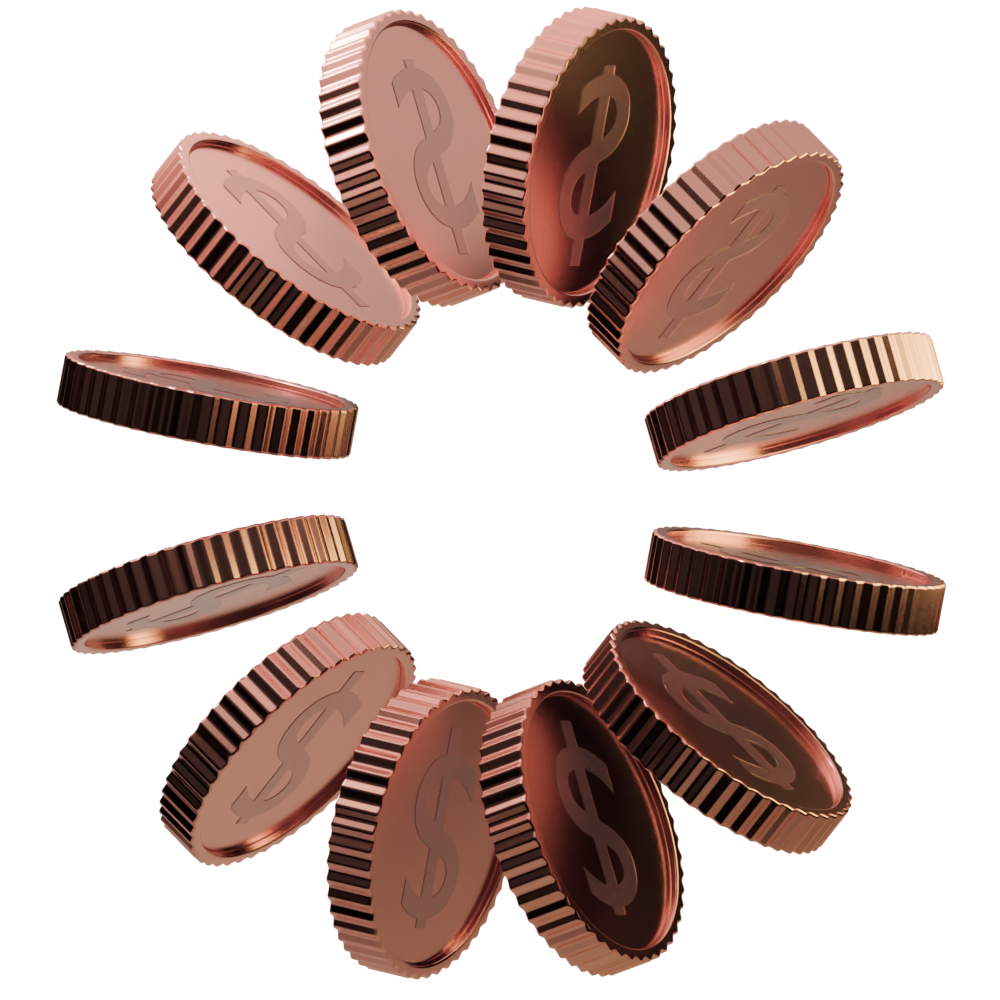
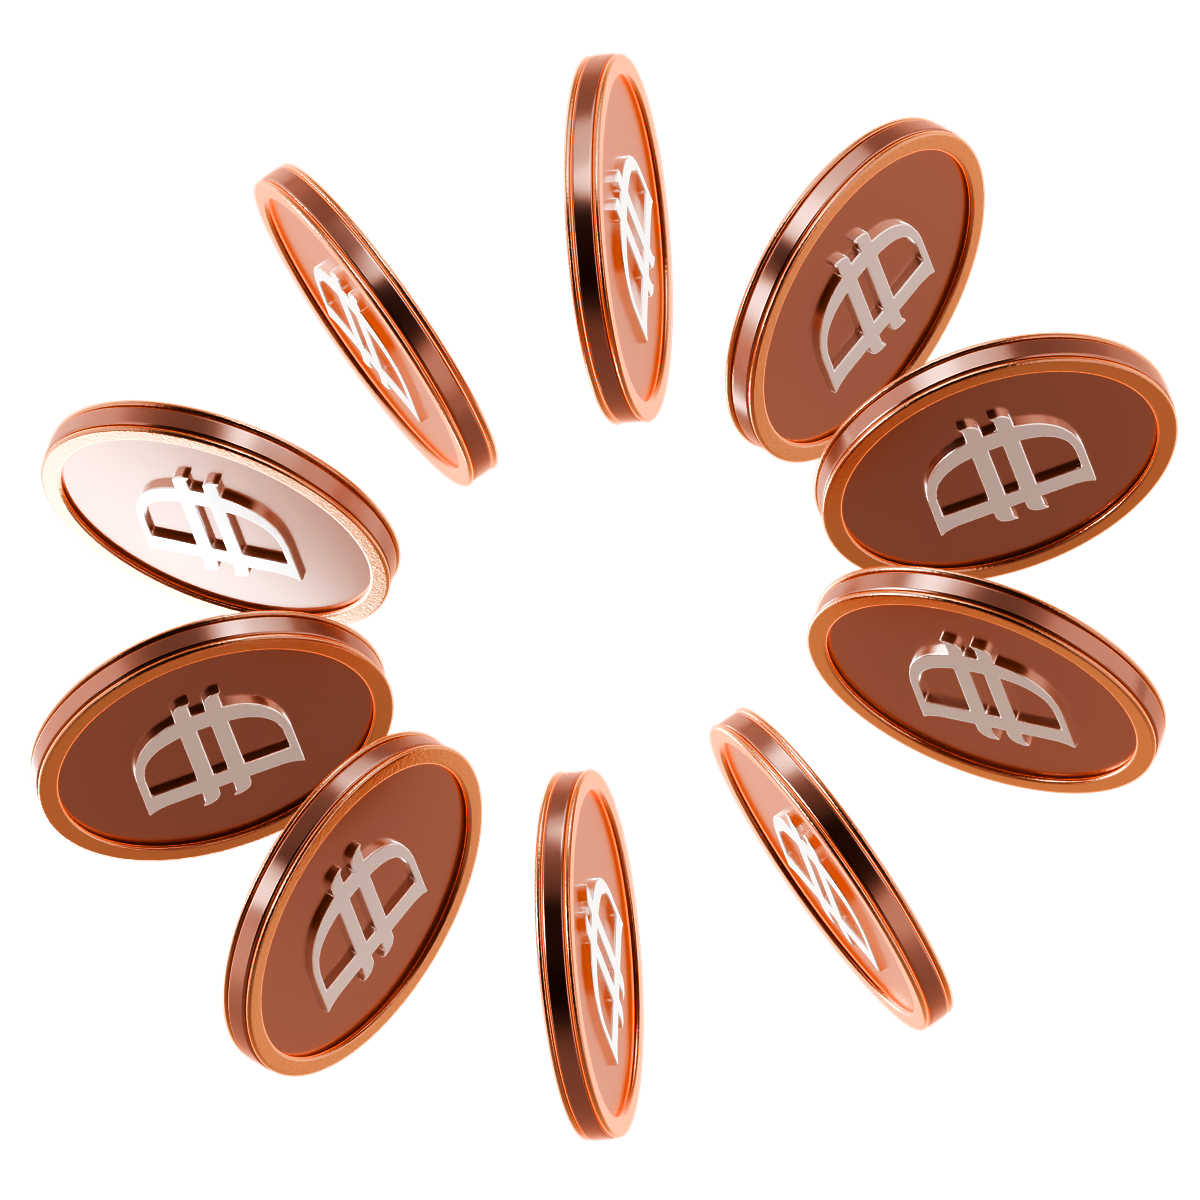
Update download, footer, goal, and invest sections
Add top padding to download section, refresh footer social icons,
update goal/invest card visuals and copy.

diff --git a/src/app/components/Footer.tsx b/src/app/components/Footer.tsx
@@ -1,61 +1,71 @@
 import imgLogo from "../../assets/sections/footer-logo.svg";
+import imgInstagram from "../../assets/sections/footer-instagram.svg";
 import imgLinkedin from "../../assets/sections/footer-linkedin.svg";
 import imgWhatsapp from "../../assets/sections/footer-whatsapp.svg";
-import imgMail from "../../assets/sections/footer-mail.svg";
+
+const navLinks = [
+  "Personalised portfolios",
+  "Islamic investing",
+  "Pricing & Fees",
+  "About us",
+  "Blog",
+  "Help centre",
+];
 
 export default function Footer() {
   return (
-    <div className="bg-[#1a110a] content-stretch flex items-center justify-center px-[180px] py-[48px] relative shrink-0 w-full" data-node-id="982:24625" data-name="footer">
-      <div className="content-stretch flex flex-[1_0_0] flex-col gap-[63px] items-start justify-center min-w-px relative" data-node-id="982:24626">
-        <div className="h-[29px] relative shrink-0 w-[194.062px]" data-node-id="982:24627" data-name="logo">
-          <img alt="CUSP" className="absolute block inset-0 max-w-none size-full" src={imgLogo} />
-        </div>
-        <div className="content-stretch flex flex-col gap-[48px] items-start relative shrink-0 w-full" data-node-id="982:24629">
-          <p className="[word-break:break-word] font-aeonik font-normal leading-[40px] not-italic relative shrink-0 text-[37px] text-white max-w-[885px]" data-node-id="982:24631">
-            Have any questions or just want to keep in touch?
-          </p>
-          <div className="content-stretch flex flex-wrap gap-[63px] items-start relative shrink-0" data-node-id="982:24632">
-            <a href="https://www.linkedin.com/company/cuspwealth" target="_blank" rel="noreferrer" className="content-stretch flex gap-[12px] items-center relative shrink-0" data-node-id="982:24633">
-              <div className="overflow-clip relative shrink-0 size-[36px]" data-node-id="982:24634" data-name="linkedin">
+    <div className="bg-white content-stretch flex flex-col items-start pb-[24px] px-[24px] relative shrink-0 w-full" data-node-id="1162:6778">
+      <div className="bg-[#1a110a] content-stretch flex items-center justify-center px-[100px] py-[48px] relative rounded-[32px] shrink-0 w-full" data-node-id="1162:6733" data-name="footer">
+        <div className="content-stretch flex items-start justify-between relative shrink-0 w-[1040px] max-w-full gap-[48px]" data-node-id="1162:6736">
+          <div className="content-stretch flex flex-col gap-[32px] items-start relative shrink-0 w-[400px]" data-node-id="1162:6737">
+            <div className="h-[21px] relative shrink-0 w-[140px]" data-node-id="1162:6738" data-name="logo">
+              <img alt="CUSP" className="absolute block inset-0 max-w-none size-full" src={imgLogo} />
+            </div>
+            <div className="content-stretch flex gap-[8px] items-center relative shrink-0" data-node-id="1162:6739">
+              <a href="https://www.instagram.com/cuspwealth" target="_blank" rel="noreferrer" aria-label="Instagram" className="overflow-clip relative shrink-0 size-[24px]" data-node-id="1162:6740">
+                <img alt="" className="absolute block inset-0 max-w-none size-full" src={imgInstagram} />
+              </a>
+              <a href="https://www.linkedin.com/company/cuspwealth" target="_blank" rel="noreferrer" aria-label="LinkedIn" className="overflow-clip relative shrink-0 size-[24px]" data-node-id="1162:6744">
                 <img alt="" className="absolute block inset-0 max-w-none size-full" src={imgLinkedin} />
-              </div>
-              <p className="[word-break:break-word] font-aeonik font-normal leading-[1.4] not-italic relative shrink-0 text-[#f5f5f5] text-[18px] whitespace-nowrap" data-node-id="982:24638">
-                Follow us on LinkedIn
-              </p>
-            </a>
-            <a href="https://wa.me/" target="_blank" rel="noreferrer" className="content-stretch flex gap-[12px] items-center relative shrink-0" data-node-id="982:24639">
-              <div className="overflow-clip relative shrink-0 size-[36px]" data-node-id="982:24640" data-name="whatsapp">
+              </a>
+              <a href="https://wa.me/" target="_blank" rel="noreferrer" aria-label="WhatsApp" className="overflow-clip relative shrink-0 size-[24px]" data-node-id="1162:6748">
                 <img alt="" className="absolute block inset-0 max-w-none size-full" src={imgWhatsapp} />
-              </div>
-              <p className="[word-break:break-word] font-aeonik font-normal leading-[1.4] not-italic relative shrink-0 text-[#f5f5f5] text-[18px] whitespace-nowrap" data-node-id="982:24645">
-                Chat on WhatsApp
-              </p>
-            </a>
-            <a href="mailto:[email redacted]" className="content-stretch flex gap-[12px] items-center relative shrink-0" data-node-id="982:24646">
-              <div className="relative shrink-0 size-[36px]" data-node-id="982:24647" data-name="mail">
-                <img alt="" className="absolute block inset-0 max-w-none size-full" src={imgMail} />
-              </div>
-              <p className="[word-break:break-word] font-aeonik font-normal leading-[1.4] not-italic relative shrink-0 text-[#f5f5f5] text-[18px] whitespace-nowrap" data-node-id="982:24652">
-                [email redacted]
-              </p>
-            </a>
+              </a>
+            </div>
           </div>
-          <div className="[word-break:break-word] content-stretch flex flex-wrap gap-[63px] items-start not-italic relative shrink-0 w-full" data-node-id="982:24653">
-            <div className="content-stretch flex flex-col gap-[12px] items-start relative shrink-0 text-[#f5f5f5] text-[16px] whitespace-nowrap" data-node-id="982:24654">
-              <p className="font-aeonik font-semibold leading-[1.4] relative shrink-0" data-node-id="982:24655">*T&amp;C Apply</p>
-              <div className="content-stretch flex flex-col font-inter font-normal gap-[12px] items-start justify-center relative shrink-0 w-full" data-node-id="982:24656">
-                <a href="#" className="leading-[1.4] relative shrink-0 underline decoration-solid [text-underline-position:from-font]" data-node-id="982:24657">
-                  Fees Schedule
-                </a>
-                <a href="#" className="leading-[1.4] relative shrink-0 underline decoration-solid [text-underline-position:from-font]" data-node-id="982:24658">
-                  Privacy &amp; Cookies Policy
-                </a>
-                <a href="#" className="leading-[1.4] relative shrink-0 underline decoration-solid [text-underline-position:from-font]" data-node-id="982:24659">
-                  Terms and Conditions
-                </a>
+          <div className="[word-break:break-word] content-stretch flex flex-col gap-[32px] items-start not-italic relative shrink-0 w-[640px] max-w-full" data-node-id="1162:6781">
+            <div className="content-stretch flex font-aeonik items-start leading-[1.4] relative shrink-0 text-[#f5f5f5] text-[14px] w-full whitespace-nowrap gap-[48px]" data-node-id="1162:6779">
+              <div className="content-stretch flex flex-[1_0_0] flex-col gap-[12px] items-start min-w-px relative" data-node-id="1162:6754">
+                {navLinks.map((label) => (
+                  <a key={label} href="#" className="relative shrink-0 hover:opacity-80 transition-opacity">
+                    {label}
+                  </a>
+                ))}
+              </div>
+              <div className="content-stretch flex flex-[1_0_0] flex-col gap-[24px] items-start min-w-px relative" data-node-id="1162:6761">
+                <div className="content-stretch flex flex-col items-start justify-center relative shrink-0" data-node-id="1162:6762">
+                  <p className="opacity-50 relative shrink-0" data-node-id="1162:6763">have questions?</p>
+                  <a href="mailto:[email redacted]" className="relative shrink-0 hover:opacity-80 transition-opacity" data-node-id="1162:6764">
+                    [email redacted]
+                  </a>
+                </div>
+                <div className="content-stretch flex flex-col items-start justify-center relative shrink-0" data-node-id="1162:6765">
+                  <p className="opacity-50 relative shrink-0" data-node-id="1162:6766">want to collaborate?</p>
+                  <a href="mailto:[email redacted]" className="relative shrink-0 hover:opacity-80 transition-opacity" data-node-id="1162:6767">
+                    [email redacted]
+                  </a>
+                </div>
+                <div className="content-stretch flex flex-col gap-[12px] items-start relative shrink-0" data-node-id="1162:6768">
+                  <p className="opacity-50 relative shrink-0" data-node-id="1162:6769">*T&amp;C Apply</p>
+                  <div className="content-stretch flex flex-col gap-[7px] items-start justify-center relative shrink-0 w-full" data-node-id="1162:6770">
+                    <a href="#" className="relative shrink-0 hover:opacity-80 transition-opacity" data-node-id="1162:6771">Fees Schedule</a>
+                    <a href="#" className="relative shrink-0 hover:opacity-80 transition-opacity" data-node-id="1162:6772">Privacy &amp; Cookies policy</a>
+                    <a href="#" className="relative shrink-0 hover:opacity-80 transition-opacity" data-node-id="1162:6773">Terms and Conditions</a>
+                  </div>
+                </div>
               </div>
             </div>
-            <p className="flex-[1_0_0] font-inter font-normal leading-[1.4] min-w-px opacity-50 relative text-[16px] text-white" data-node-id="982:24660">
+            <p className="font-inter font-normal leading-[1.4] opacity-50 relative shrink-0 text-[14px] text-white w-full" data-node-id="1162:6782">
               {`Cusp Wealth is a DFSA-regulated company with a Category 4 license to serve retail clients under license number F011420. We are authorised to advise on financial products and arrange deals in investments. Any information presented here is of a general nature and does not take into account your personal circumstances or financial objectives. All materials used in these communications are for marketing purposes of the Cusp Wealth Application; none are meant to offer to sell, a solicitation or an offer to buy, or a recommendation for any investment product or strategy. Investing involves risk; you may lose all or part of your capital. No content from Cusp Wealth should be understood as guaranteeing returns, offering risk-free investments, or promising wealth outcomes. This material is intended for DFSA-defined Retail and/or Professional Clients. If you are unsure of your classification or eligibility, please contact us at [email redacted], or refer to our full disclosure at `}
               <a className="underline decoration-solid [text-underline-position:from-font] cursor-pointer" href="https://cuspwealth.com/terms-and-conditions" target="_blank" rel="noreferrer">
                 https://cuspwealth.com/terms-and-conditions

diff --git a/src/app/components/FAQ.tsx b/src/app/components/FAQ.tsx
@@ -69,14 +69,18 @@ const faqs: FaqItem[] = [
 
 function Chevron({ open }: { open: boolean }) {
   return (
-    <div
-      className={`flex items-center justify-center relative shrink-0 size-[46px] transition-transform duration-200 ${
-        open ? "rotate-180" : ""
-      }`}
-    >
-      <svg className="block size-[46px]" fill="none" viewBox="0 0 46 46" xmlns="http://www.w3.org/2000/svg" aria-hidden>
+    <div className="overflow-clip relative shrink-0 size-[46px]">
+      <svg
+        className={`-translate-x-1/2 -translate-y-1/2 absolute left-1/2 top-1/2 block size-[28px] transition-transform duration-200 ${
+          open ? "rotate-180" : ""
+        }`}
+        fill="none"
+        viewBox="0 0 28 28"
+        xmlns="http://www.w3.org/2000/svg"
+        aria-hidden
+      >
         <path
-          d="M15 19.5L23 27.5L31 19.5"
+          d="M8 11.5L14 17.5L20 11.5"
           stroke="#1d1611"
           strokeWidth="2"
           strokeLinecap="round"
@@ -88,16 +92,16 @@ function Chevron({ open }: { open: boolean }) {
 }
 
 export default function FAQ() {
-  const [openIndex, setOpenIndex] = useState<number>(3);
+  const [openIndex, setOpenIndex] = useState<number>(faqs.length - 1);
 
   return (
-    <div className="bg-[#fcf8ef] content-stretch flex flex-col items-center py-[80px] relative shrink-0 w-full" data-node-id="982:24589">
+    <div className="bg-white content-stretch flex flex-col items-center py-[80px] relative shrink-0 w-full" data-node-id="982:24589">
       <div className="content-stretch flex flex-col gap-[60px] items-center relative shrink-0 w-full" data-node-id="982:24590">
         <p className="[word-break:break-word] font-aeonik font-normal leading-[56px] not-italic relative shrink-0 text-[#1d1611] text-[48px] text-center tracking-[-0.96px]" data-node-id="982:24592">
           FAQ
         </p>
-        <div className="content-stretch flex flex-col items-center px-[200px] relative shrink-0 w-full" data-node-id="982:24593">
-          <div className="content-stretch flex flex-col gap-[9px] items-start relative shrink-0 w-full" data-node-id="982:24595">
+        <div className="content-stretch flex flex-col items-center px-[24px] relative shrink-0 w-full" data-node-id="982:24593">
+          <div className="content-stretch flex flex-col gap-[9px] items-start relative shrink-0 w-full max-w-[680px]" data-node-id="982:24595">
             {faqs.map((faq, index) => {
               const isOpen = openIndex === index;
               return (
@@ -106,17 +110,17 @@ export default function FAQ() {
                     type="button"
                     onClick={() => setOpenIndex(isOpen ? -1 : index)}
                     aria-expanded={isOpen}
-                    className={`bg-white content-stretch flex gap-[16px] items-center justify-between px-[24px] py-[12px] relative shrink-0 text-left w-full ${
-                      isOpen ? "rounded-tl-[16px] rounded-tr-[16px]" : "rounded-[16px]"
+                    className={`bg-[#fafafa] content-stretch flex gap-[16px] items-center justify-between px-[24px] py-[12px] relative shrink-0 text-left w-full rounded-[16px] ${
+                      isOpen ? "mb-[-11px] z-[1]" : ""
                     }`}
                   >
-                    <p className="[word-break:break-word] font-aeonik font-normal leading-[29px] not-italic relative shrink-0 text-[24px] text-black tracking-[-0.48px]">
+                    <p className="[word-break:break-word] font-aeonik font-normal leading-[29px] not-italic relative shrink-0 text-[23px] text-black tracking-[-0.46px]">
                       {faq.question}
                     </p>
                     <Chevron open={isOpen} />
                   </button>
                   {isOpen && (
-                    <div className="bg-[#fffcf8] content-stretch flex items-center p-[24px] relative rounded-bl-[16px] rounded-br-[16px] shrink-0 w-full">
+                    <div className="bg-[#fafafa] content-stretch flex items-center p-[24px] relative rounded-bl-[16px] rounded-br-[16px] shrink-0 w-full">
                       <div className="[word-break:break-word] flex-[1_0_0] font-inter font-normal leading-[0] min-w-px not-italic relative text-[#0f0a08] text-[16px] whitespace-pre-wrap">
                         {faq.answer}
                       </div>

diff --git a/src/app/components/GoalCardsStack.tsx b/src/app/components/GoalCardsStack.tsx
@@ -5,8 +5,8 @@ import imgLegacyCoins from "../../assets/sections/goal/legacy-coins.png";
 import imgRetireMan from "../../assets/sections/goal/retire-man.png";
 import imgRetireMask from "../../assets/sections/goal/retire-mask.svg";
 
-const ORANGE_GRADIENT =
-  "linear-gradient(182.84695752350353deg, rgb(221, 116, 15) 11.523%, rgb(249, 245, 240) 181.22%), linear-gradient(90deg, rgb(251, 237, 222) 0%, rgb(251, 237, 222) 100%)";
+const RETIRE_GRADIENT =
+  "linear-gradient(194.67599399443316deg, rgb(210, 173, 141) 2.1601%, rgb(250, 247, 238) 103.92%)";
 
 export default function GoalCardsStack() {
   return (
@@ -33,7 +33,7 @@ export default function GoalCardsStack() {
           className="bg-[#d8c9b9] content-stretch flex flex-col h-full items-start justify-end overflow-clip p-[12px] relative rounded-[44px] shrink-0 w-[424px]"
           data-node-id="982:24231"
         >
-          <div className="absolute h-[640px] left-[-70px] top-[-89px] w-[1142px] pointer-events-none" data-node-id="1013:26420">
+          <div className="-translate-x-1/2 -translate-y-1/2 absolute h-[711.896px] left-[calc(50%+140.26px)] top-[calc(50%-46.23px)] w-[1260.648px] pointer-events-none" data-node-id="1162:6849">
             <img alt="" className="absolute inset-0 max-w-none object-cover pointer-events-none size-full" src={imgHalalCouple} loading="lazy" decoding="async" />
           </div>
           <div
@@ -71,7 +71,7 @@ export default function GoalCardsStack() {
             className="bg-[#f2d2a9] content-stretch flex flex-[1_0_0] flex-col items-end min-h-px overflow-clip px-[12px] py-[32px] relative rounded-[32px] w-full"
             data-node-id="982:24293"
           >
-            <div className="absolute box-content blur-[26.5px] left-[-149px] opacity-70 size-[331px] top-[-8px] pointer-events-none" data-node-id="1013:26451">
+            <div className="absolute blur-[26.5px] left-[-149px] opacity-70 size-[331px] top-[-8px] pointer-events-none" data-node-id="1013:26451">
               <img alt="" className="absolute inset-0 max-w-none object-cover pointer-events-none size-full" src={imgLegacyCoins} loading="lazy" decoding="async" />
             </div>
             <div
@@ -93,16 +93,20 @@ export default function GoalCardsStack() {
           <div
             className="content-stretch flex flex-[1_0_0] flex-col items-end min-h-px overflow-clip px-[12px] py-[32px] relative rounded-[32px] w-full"
             data-node-id="982:24240"
-            style={{ backgroundImage: ORANGE_GRADIENT }}
+            style={{ backgroundImage: RETIRE_GRADIENT }}
           >
-            <div className="-translate-x-1/2 -translate-y-1/2 absolute h-[293px] left-[calc(50%-10px)] top-[calc(50%-19.75px)] w-[522px] pointer-events-none" data-node-id="1013:26429">
-              <img alt="" className="absolute inset-0 max-w-none object-cover pointer-events-none size-full" src={imgRetireMan} loading="lazy" decoding="async" />
-            </div>
             <div className="absolute h-[987.347px] left-[-723.43px] opacity-30 top-[-11.29px] w-[1465.778px] pointer-events-none" data-node-id="982:24245">
               <img alt="" className="absolute block inset-0 max-w-none size-full" src={imgRetireMask} />
             </div>
+            <div className="absolute flex h-[398.305px] items-center justify-center left-[-241.95px] top-[-11.29px] w-[713.05px] pointer-events-none" data-node-id="1162:6882">
+              <div className="-scale-y-100 flex-none rotate-180">
+                <div className="h-[398.305px] relative w-[713.05px]">
+                  <img alt="" className="absolute inset-0 max-w-none object-cover pointer-events-none size-full" src={imgRetireMan} loading="lazy" decoding="async" />
+                </div>
+              </div>
+            </div>
             <div
-              className="[word-break:break-word] content-stretch flex flex-col gap-[8.936px] items-start relative shrink-0 text-white w-[200px] z-[1]"
+              className="[word-break:break-word] content-stretch flex flex-col gap-[8.936px] items-start relative shrink-0 text-black w-[200px] z-[1]"
               data-node-id="982:24264"
             >
               <p className="font-aeonik font-normal leading-[32.765px] relative shrink-0 text-[26px] w-full" data-node-id="982:24265">

diff --git a/src/app/components/InvestWays.tsx b/src/app/components/InvestWays.tsx
@@ -4,6 +4,7 @@ import imgSlide1 from "../../assets/way-slide-1.png";
 import imgSlide2 from "../../assets/way-slide-2.png";
 import imgSlide3 from "../../assets/way-slide-3.png";
 import imgSlide4 from "../../assets/way-slide-4.png";
+import imgSlide5 from "../../assets/way-slide-5.png";
 
 type Slide = {
   title: string;
@@ -36,6 +37,12 @@ const slides: Slide[] = [
     description:
       "Remove conflict between financial decisions and personal moral values with our shariah investment tools",
     image: imgSlide3,
+  },
+  {
+    title: "Get professional human guidance",
+    description:
+      "Not sure which assets are right for your portfolio? Speak with a CUSP Wealth financial advisor \u2013 your first call is on us.",
+    image: imgSlide5,
   },
 ];
 
@@ -109,7 +116,7 @@ export default function InvestWays() {
             <div className="relative w-[4px] shrink-0" style={{ height: TRACK_HEIGHT }}>
               <div className="absolute inset-0 rounded-[32px] bg-black/10" />
               <div
-                className="absolute left-0 w-[4px] rounded-[32px] bg-[#e0842b]"
+                className="absolute left-0 w-[4px] rounded-[32px] bg-[#e17105]"
                 style={{ height: thumbHeight, top: thumbTop }}
               />
             </div>

diff --git a/src/app/components/DownloadCUSP.tsx b/src/app/components/DownloadCUSP.tsx
@@ -3,9 +3,9 @@ import imgQr from "../../assets/sections/download-qr.png";
 
 export default function DownloadCUSP() {
   return (
-    <div className="content-stretch flex flex-col items-start px-[24px] relative shrink-0 w-full" data-node-id="982:22686">
+    <div className="content-stretch flex flex-col items-start px-[24px] pt-[60px] relative shrink-0 w-full" data-node-id="982:22686">
       <div className="h-[374px] overflow-clip pt-[40px] relative shrink-0 w-full" data-node-id="982:24057">
-        <div className="absolute content-stretch flex flex-col gap-[12px] items-start left-0 px-[200px] py-[32px] rounded-[32px] top-[51.41px] w-full" data-node-id="982:22687" style={{ backgroundImage: "linear-gradient(228.81224057338144deg, rgb(181, 126, 74) 32.615%, rgb(249, 245, 240) 102.89%), linear-gradient(90deg, rgb(251, 237, 222) 0%, rgb(251, 237, 222) 100%)" }}>
+        <div className="absolute content-stretch flex flex-col gap-[12px] h-[323px] items-start left-0 px-[200px] py-[32px] rounded-[32px] top-[51.41px] w-full bg-[#f2e6df]" data-node-id="982:22687">
           <div className="[word-break:break-word] font-aeonik font-normal leading-[0] not-italic relative shrink-0 text-[24px] text-black tracking-[-0.48px] w-[434px] whitespace-pre-wrap" data-node-id="982:22688">
             <p className="leading-[29px]">This is your CUSP of change</p>
           </div>

diff --git a/src/app/components/FinalCTA.tsx b/src/app/components/FinalCTA.tsx
@@ -5,7 +5,7 @@ import imgEmailIcon from "../../assets/sections/cta-email-icon.svg";
 
 export default function FinalCTA() {
   return (
-    <div className="content-stretch flex flex-col gap-[40px] items-start pt-[64px] pb-[124px] relative shrink-0 w-full" data-node-id="959:22385">
+    <div className="content-stretch flex flex-col gap-[40px] items-start pt-[160px] pb-[124px] relative shrink-0 w-full" data-node-id="959:22385">
       <div className="content-stretch flex flex-col items-center relative shrink-0 w-full" data-node-id="959:22411">
         <p className="[word-break:break-word] font-aeonik font-normal leading-[56px] not-italic relative shrink-0 text-[#1d1611] text-[48px] text-center tracking-[-0.96px] w-full whitespace-pre-wrap" data-node-id="959:22386">
           Let&rsquo;s build something that lasts